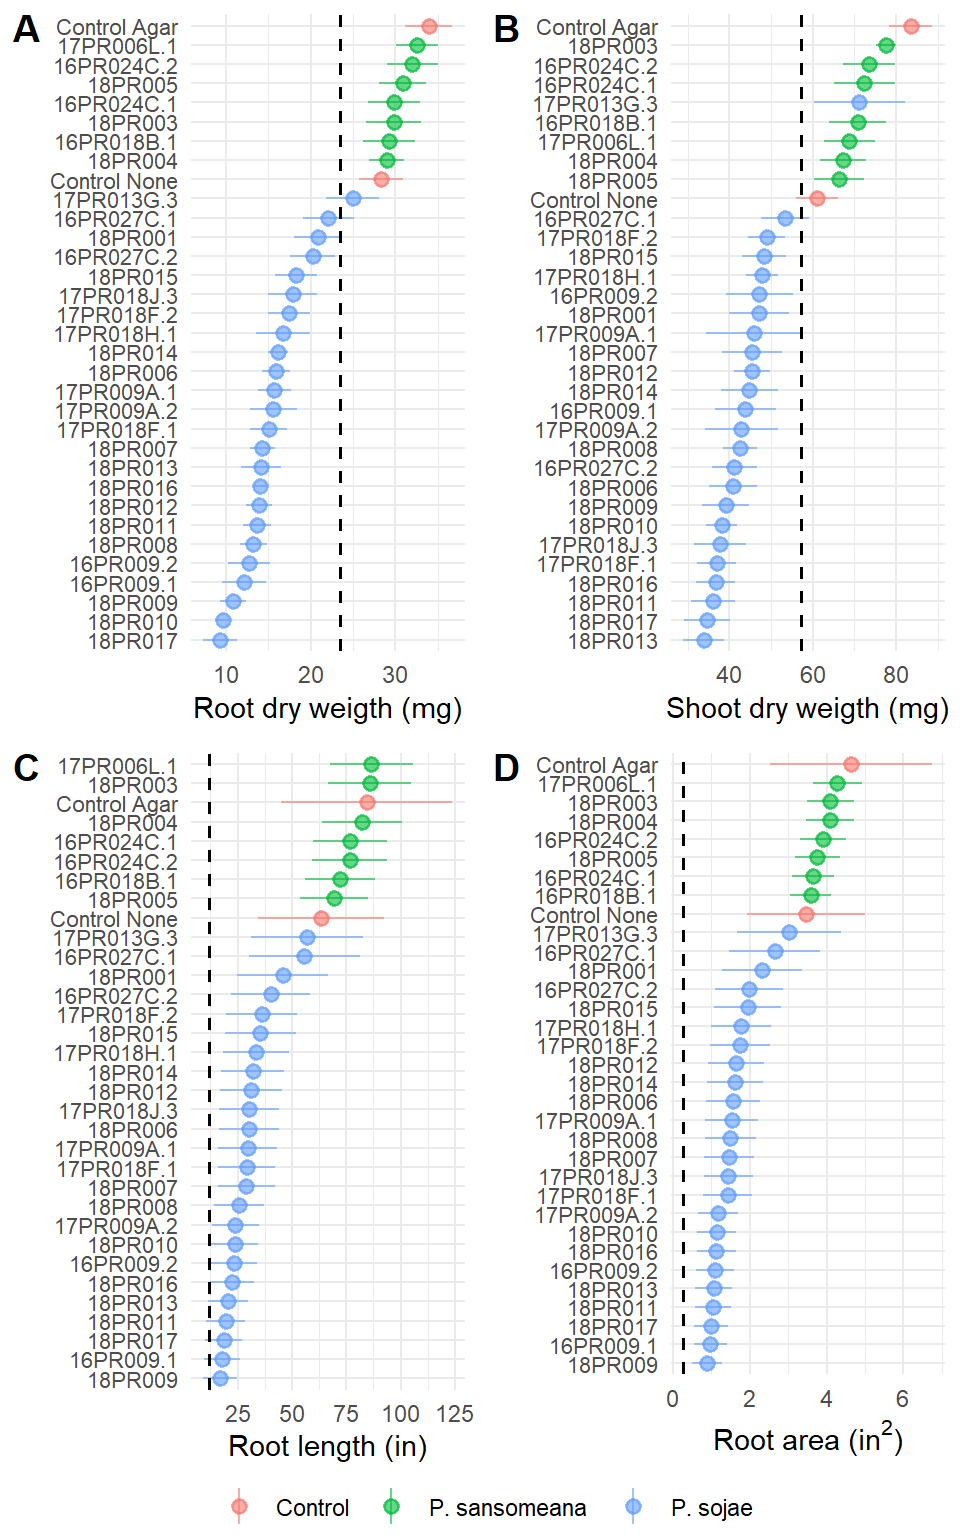
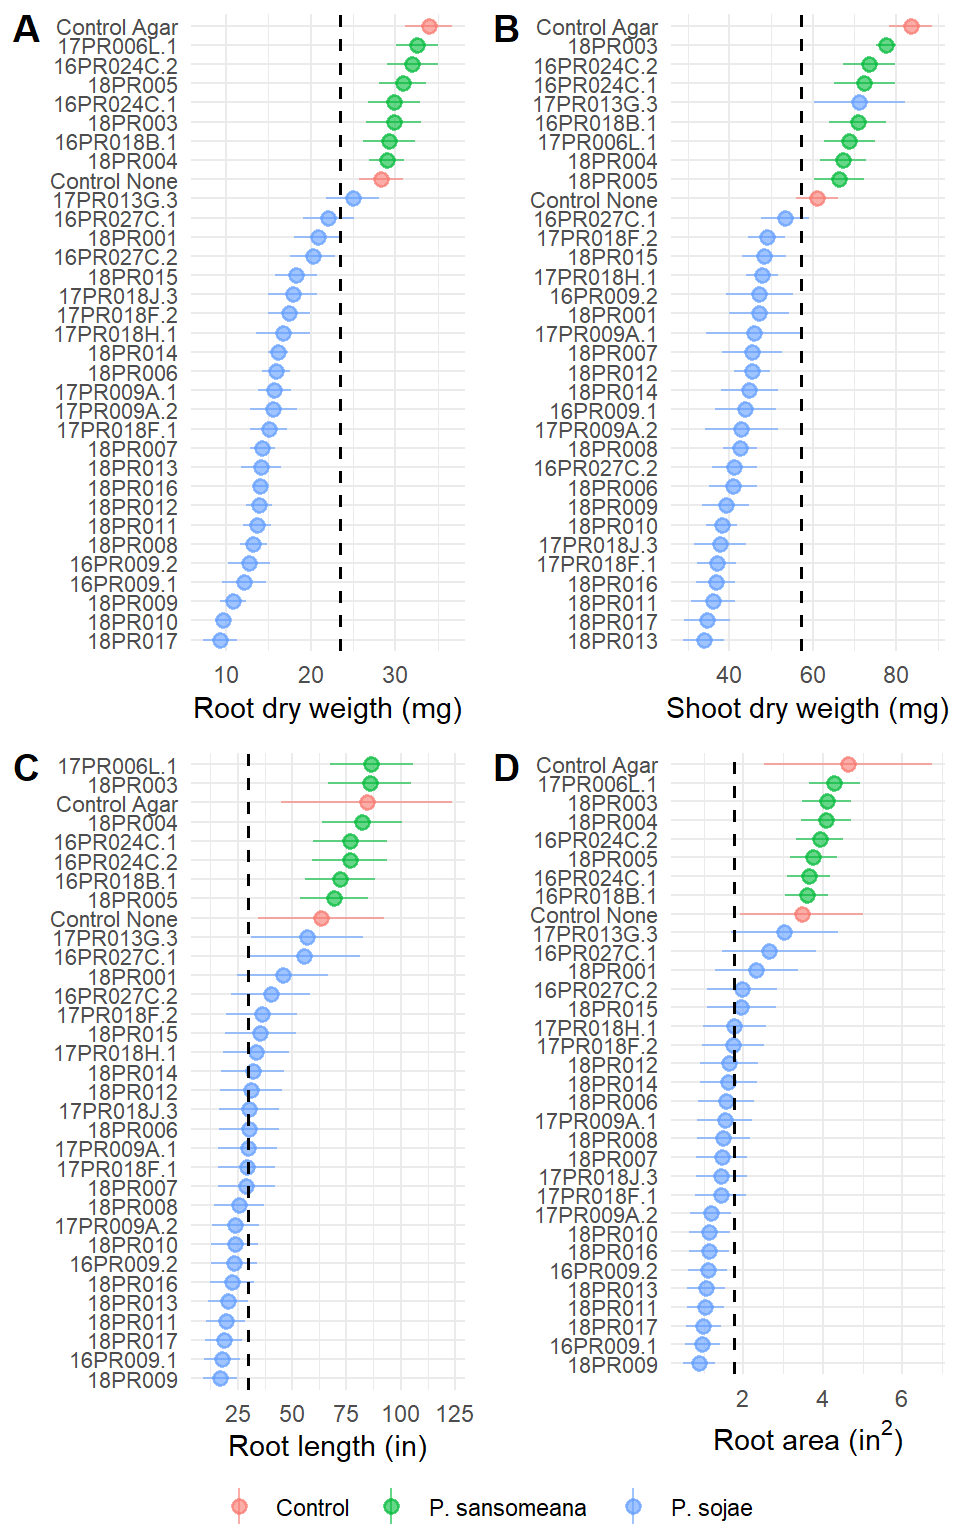
Build site.

Changed region(s): [[0.7188, 0.5, 0.875, 0.9062], [0.8438, 0.9062, 0.875, 0.9375]]

diff --git a/docs/02_analysis_phytophtora-spp-survey.html b/docs/02_analysis_phytophtora-spp-survey.html
@@ -407,7 +407,7 @@ div.tocify {
 <div class="tab-content">
 <div id="summary" class="tab-pane fade in active">
 <p>
-<strong>Last updated:</strong> 2020-10-04
+<strong>Last updated:</strong> 2020-10-05
 </p>
 <p>
 <strong>Checks:</strong> <span class="glyphicon glyphicon-ok text-success" aria-hidden="true"></span> 7 <span class="glyphicon glyphicon-exclamation-sign text-danger" aria-hidden="true"></span> 0
@@ -498,16 +498,16 @@ This reproducible <a href="http://rmarkdown.rstudio.com">R Markdown</a> analysis
 <div class="panel panel-default">
 <div class="panel-heading">
 <p class="panel-title">
-<a data-toggle="collapse" data-parent="#workflowr-checks" href="#strongRepositoryversionstrongahrefhttpsgithubcomdanielcerritosphytophthoratree68dee2a55a414cd8790361bb2b6a1f9583c8cb70targetblank68dee2aa"> <span class="glyphicon glyphicon-ok text-success" aria-hidden="true"></span> <strong>Repository version:</strong> <a href="https://github.com/danielcerritos/phytophthora/tree/68dee2a55a414cd8790361bb2b6a1f9583c8cb70" target="_blank">68dee2a</a> </a>
+<a data-toggle="collapse" data-parent="#workflowr-checks" href="#strongRepositoryversionstrongahrefhttpsgithubcomdanielcerritosphytophthoratreea7024f81cab6e83f816ebb432c3636734fee8439targetblanka7024f8a"> <span class="glyphicon glyphicon-ok text-success" aria-hidden="true"></span> <strong>Repository version:</strong> <a href="https://github.com/danielcerritos/phytophthora/tree/a7024f81cab6e83f816ebb432c3636734fee8439" target="_blank">a7024f8</a> </a>
 </p>
 </div>
[2 lines of base64/hex data omitted]
 <div class="panel-body">
 <p>
 Great! You are using Git for version control. Tracking code development and connecting the code version to the results is critical for reproducibility.
 </p>
 <p>
-The results in this page were generated with repository version <a href="https://github.com/danielcerritos/phytophthora/tree/68dee2a55a414cd8790361bb2b6a1f9583c8cb70" target="_blank">68dee2a</a>. See the <em>Past versions</em> tab to see a history of the changes made to the R Markdown and HTML files.
+The results in this page were generated with repository version <a href="https://github.com/danielcerritos/phytophthora/tree/a7024f81cab6e83f816ebb432c3636734fee8439" target="_blank">a7024f8</a>. See the <em>Past versions</em> tab to see a history of the changes made to the R Markdown and HTML files.
 </p>
 <p>
 Note that you need to be careful to ensure that all relevant files for the analysis have been committed to Git prior to generating the results (you can use <code>wflow_publish</code> or <code>wflow_git_commit</code>). workflowr only checks the R Markdown file, but you know if there are other scripts or data files that it depends on. Below is the status of the Git repository when the results were generated:
@@ -557,6 +557,40 @@ Message
 </tr>
 </thead>
 <tbody>
+<tr>
+<td>
+Rmd
+</td>
+<td>
+<a href="https://github.com/danielcerritos/phytophthora/blob/a7024f81cab6e83f816ebb432c3636734fee8439/analysis/02_analysis_phytophtora-spp-survey.Rmd" target="_blank">a7024f8</a>
+</td>
+<td>
+Daniel Guillermo Cerritos
+</td>
+<td>
+2020-10-05
+</td>
+<td>
+wflow_publish(“analysis/02_analysis_phytophtora-spp-survey.Rmd”)
+</td>
+</tr>
+<tr>
+<td>
+html
+</td>
+<td>
+<a href="https://rawcdn.githack.com/danielcerritos/phytophthora/09efd8936473f2a2b51921cb470d768a751ac183/docs/02_analysis_phytophtora-spp-survey.html" target="_blank">09efd89</a>
+</td>
+<td>
+Daniel Guillermo Cerritos
+</td>
+<td>
+2020-10-04
+</td>
+<td>
+Build site.
+</td>
+</tr>
 <tr>
 <td>
 html
@@ -3280,7 +3314,7 @@ table_one %&gt;% pander()</code></pre>
 </tr>
 </tbody>
 </table>
-<pre class="r"><code># write_csv(table_one_modified, path = here(&quot;output&quot;, &quot;results&quot;, &quot;02_identification_phytophthora-isolates_table-1.csv&quot;))</code></pre>
+<pre class="r"><code># write_csv(table_one, path = here(&quot;output&quot;, &quot;results&quot;, &quot;02_identification_phytophthora-isolates_table-1.csv&quot;))</code></pre>
 </div>
 <div id="table-2" class="section level2">
 <h2>Table 2</h2>
@@ -4181,6 +4215,7 @@ Intervals are back-transformed from the log scale
 P value adjustment: tukey method for comparing a family of 9 estimates 
 Tests are performed on the log scale 
 significance level used: alpha = 0.05 </code></pre>
+<p>save means</p>
 <pre class="r"><code>m_root_dry_sansomeana &lt;- emmeans(fm_root_dry_sansomeana, ~ isolate) %&gt;% 
   tidy() %&gt;% 
   mutate(agg_parameter = &quot;Root dry weigth&quot;)
@@ -4211,6 +4246,10 @@ agg_sansomeana_means &lt;- agg_sansomeana_means %&gt;%
       ))
 
 # write_csv(agg_sansomeana_means, here(&quot;output&quot;, &quot;results&quot;, &quot;02_aggressiveness_sansomeana-means.csv&quot;))</code></pre>
+</div>
+</div>
+<div id="figure-4" class="section level2">
+<h2>Figure 4</h2>
 <pre class="r"><code>fig_4A &lt;- aggressiveness_plots %&gt;% 
   ggplot(aes(x = reorder (isolate, root_mg), y = root_mg, color = species)) + 
   coord_flip() +
@@ -4258,7 +4297,7 @@ fig_4C &lt;- means_aggressiveness %&gt;%
   coord_flip() +
   geom_pointrange(aes(ymin = estimate - std.error, ymax = estimate + std.error), 
                   alpha = 0.6) +
-  geom_hline(yintercept = 11.8, linetype=&quot;dashed&quot;,  size = 0.7) +
+  geom_hline(yintercept = 30.05, linetype=&quot;dashed&quot;,  size = 0.7) +
   theme_minimal() +
   theme(legend.position = &quot;none&quot;, 
         axis.text.y  = element_text(size = rel(0.95))) +
@@ -4272,7 +4311,7 @@ fig_4D &lt;- means_aggressiveness %&gt;%
   coord_flip() +
   geom_pointrange(aes(ymin = estimate - std.error, ymax = estimate + std.error), 
                   alpha = 0.6) +
-  geom_hline(yintercept = 0.272, linetype=&quot;dashed&quot;,  size = 0.7) +
+  geom_hline(yintercept = 1.7545, linetype=&quot;dashed&quot;,  size = 0.7) +
   theme_minimal() +
   theme(legend.position = &quot;none&quot;, 
         axis.text.y  = element_text(size = rel(0.95))) +
@@ -4289,7 +4328,6 @@ legend_four &lt;- get_legend(fig_4A + theme(legend.position = &quot;bottom&quot;
 (figure_four &lt;- plot_grid(figure_four_no_legend, legend_four, ncol = 1, rel_heights = c(1,0.04)))</code></pre>
 <p><img src="figure/02_analysis_phytophtora-spp-survey.Rmd/fig%204-1.png" width="480" style="display: block; margin: auto;" /></p>
 <pre class="r"><code># ggsave(&quot;figure4.tiff&quot;, plot = figure_four, dpi = 300, path = here(&quot;docs&quot;, &quot;figure&quot;), width = 5, height = 8)</code></pre>
-</div>
 </div>
 </div>
 <div id="fungicide-sensitivity" class="section level1">
